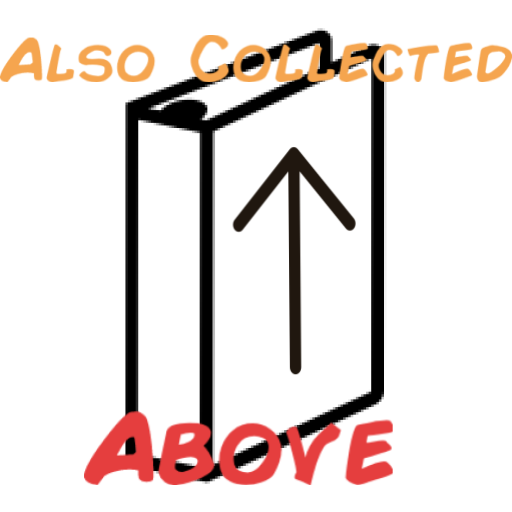
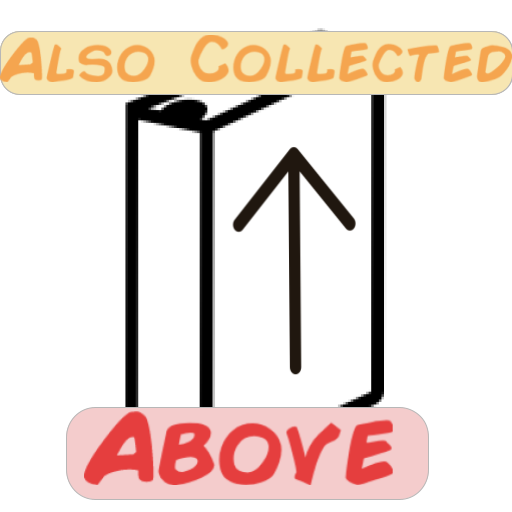
6/9 Stickers Update
Added sticker to place "above" and "below" on the same level, increased visibility on the mentioned stickers, slight improvement to the CSS sizing of the stickers. Will require more maintenance later

Changed region(s): [[0.125, 0.7812, 0.8438, 1.0], [0.0, 0.0625, 1.0, 0.1875]]

diff --git a/index.html b/index.html
@@ -174,9 +174,10 @@
                 <img src="crossoverIconV2red.png" title="Crossover Marker 2" alt="Red Crossover Marker sticker">
                 <img src="crossoverIconV2green.png" title="Crossover Marker 3" alt="Green Crossover Marker sticker">
                 <img src="crossoverIconV2white.png" title="Crossover Marker 4" alt="Black and White 6Crossover Marker sticker">
+                <img src="wSticker.png" title="W" alt="W sticker">
                 <img src="loveThis.png" title="Love This!" alt="Love This! sticker">
                 <img src="mid.png" title="Kinda Mid Bro" alt="Kinda Mid Bro">
-                <img src="sus.png" title="The Sus One" alt="The Sus One">
+                <img src="sus.png" title="A lil Sus" alt="A lil Sus sticker">
                 <img src="alsoCollectedBelowIcon.png" title="Included Below" alt="Also collected below sticker">
                 <img src="alsoCollectedAboveIcon.png" title="Included Above" alt="Also collected above sticker">
                 <img src="thumbsUp.jpg" title="Booster Approves" alt="Booster Approves sticker">

diff --git a/styles.css b/styles.css
@@ -289,8 +289,8 @@ input[type=checkbox] {
     text-align: left;
 }
 
-.sticker { /*Stickers on books*/
-    width: calc(30px + 0.9vw);
+.sticker { /*Stickers on books - at some point: create a media query to fix stickers sizing*/
+    width: 3vw;
 }
 
 details {
